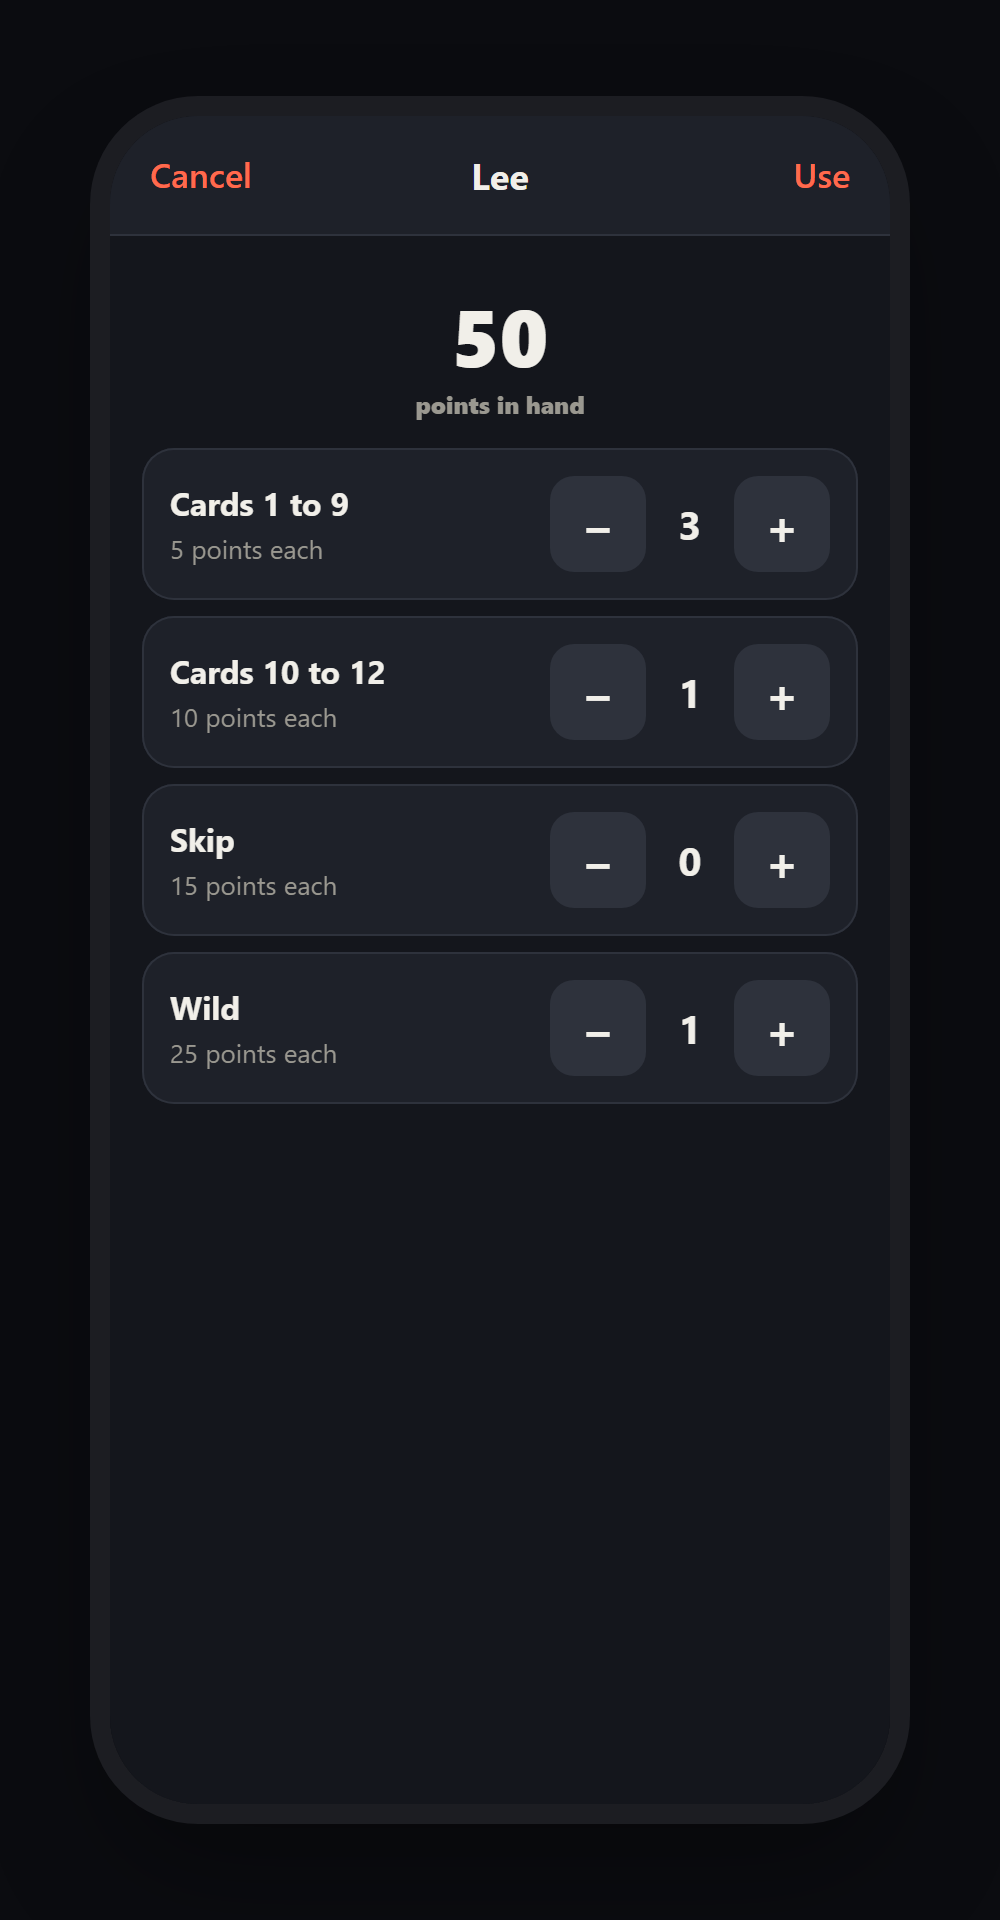
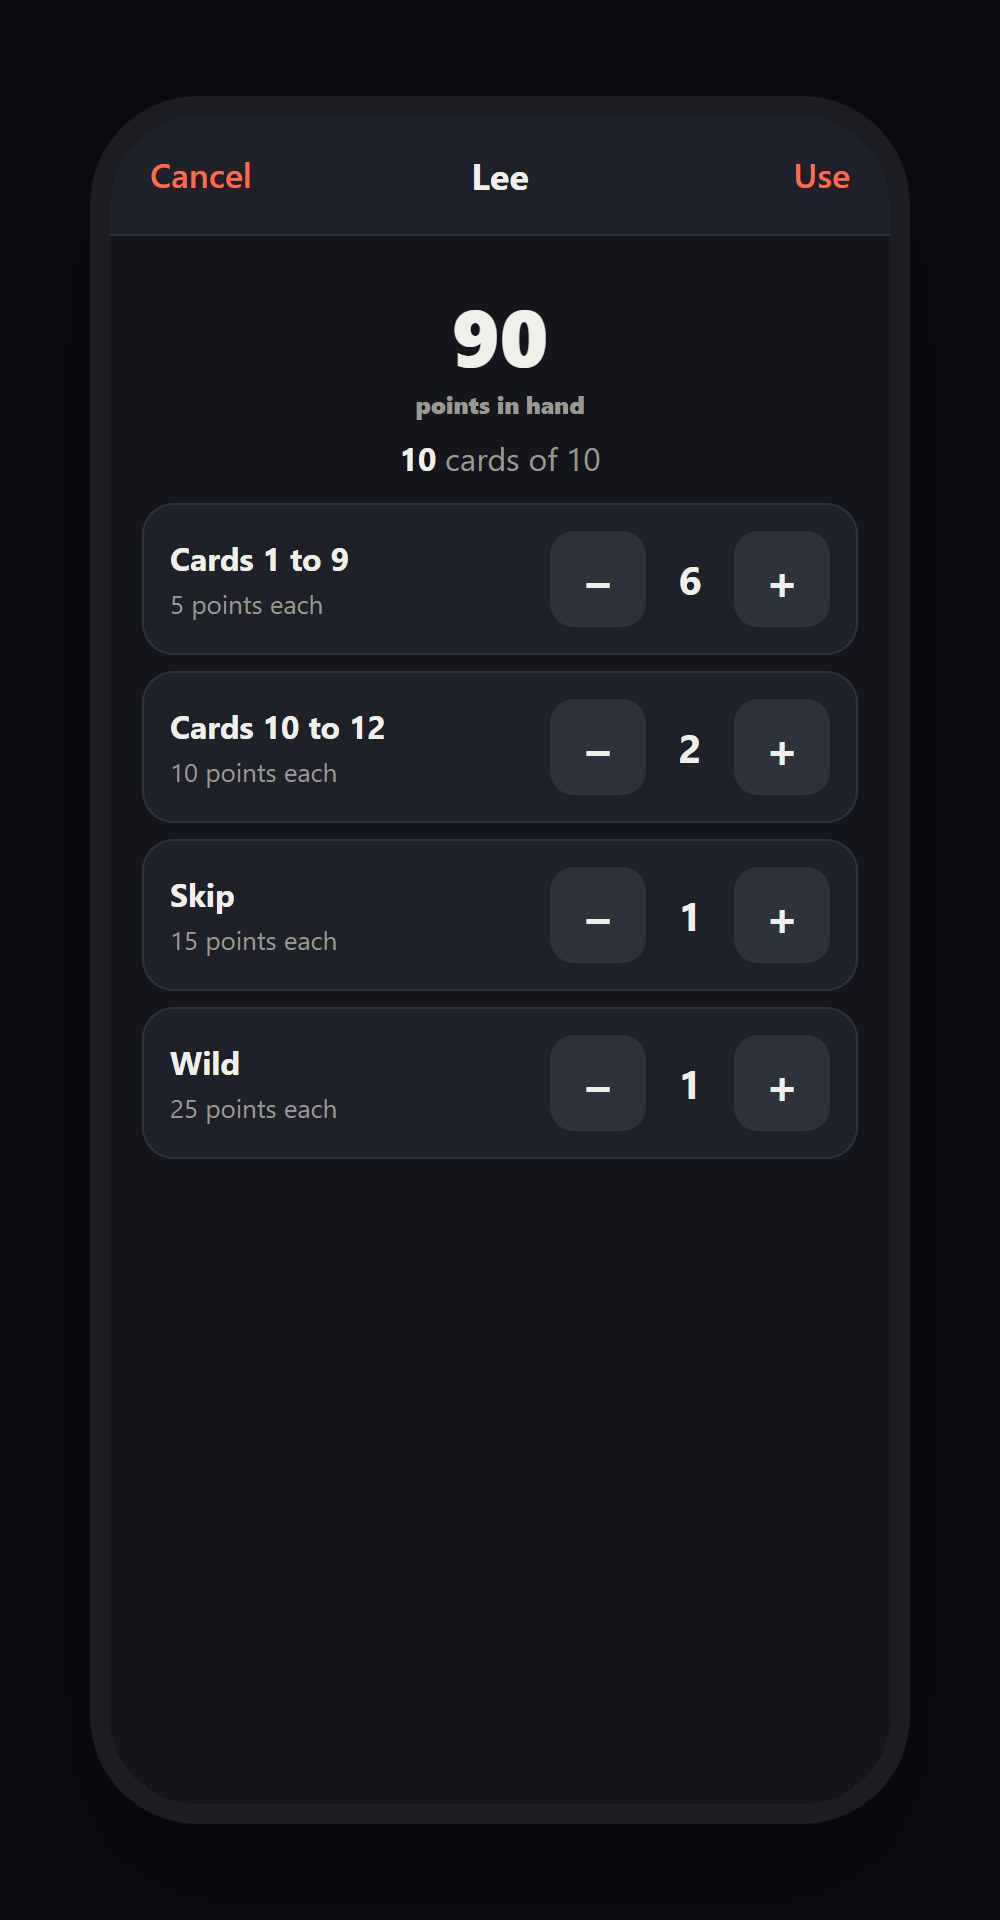
README: describe the 10-card check, new screenshots with valid hands

diff --git a/README.md b/README.md
@@ -32,7 +32,8 @@
 |---|---|
 | 🏆 **Live scoreboard** | Everyone's phase, total points and the leader, sorted the way the rules rank players. |
 | ✅ **Fast round entry** | One tap for "made phase", one tap for "went out", type the rest. |
-| 🧮 **Card counter** | Tap in the cards left in a hand (1 to 9, 10 to 12, Skip, Wild) and it adds the points for you. |
+| 🧮 **Card counter** | Tap in the cards left in a hand (1 to 9, 10 to 12, Skip, Wild) and it adds the points and counts the cards for you. |
+| 🚦 **Catches mistakes** | A player who missed their phase still holds 10 cards, so the app flags anything under 50 points. It also flags points that aren't in 5s and totals no hand can reach. |
 | 🃏 **Dealer tracking** | Shows who deals and who plays first, and passes the deal each round. |
 | ✏ **Fix mistakes** | Edit any past round from a clearly marked editing screen. |
 | 📚 **Past games** | Finished games are kept, with every round. |
@@ -55,12 +56,14 @@
 ## How to use it
 
 1. **Set up a game.** Enter the players in seating order and pick who deals first.
-2. **After each hand**, tap **Score round**. For each player, tick **Made phase** and enter the points left in their hand (or tap **Went out** for 0). Use **Count** to add up a hand.
+2. **After each hand**, tap **Score round**. For each player, tick **Made phase** and enter the points left in their hand (or tap **Went out** for 0). Use **Count** to add up a hand. If a number can't be right, that player's row turns red and says why; you can still save anyway for house rules.
 3. **Save.** The scoreboard updates and the deal moves to the next player.
 4. When someone finishes phase 10, the app names the winner and offers a new game.
 
 <p align="center">
-  <img src="docs/count-dark.png" width="240" alt="Card counter adding up a hand">
+  <img src="docs/count-dark.png" width="240" alt="Card counter: 10 cards adding up to 90 points">
+  &nbsp;
+  <img src="docs/check-dark.png" width="240" alt="A player who missed their phase with only 35 points is flagged in red">
 </p>
 
 ## Updates
